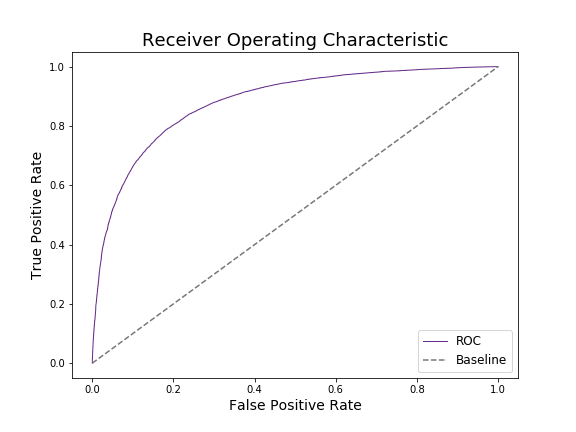
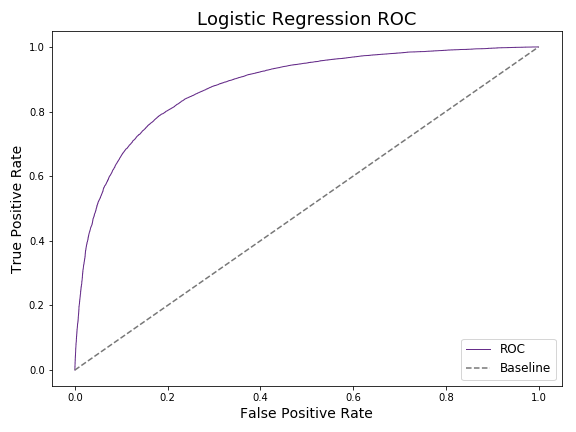
added ROC curves

diff --git a/README.md b/README.md
@@ -6,62 +6,83 @@ This project would not have been possible without the data from [fetus-hina](htt
 ## Description
 
 #### Motivation and Goals
+
 &nbsp;&nbsp;&nbsp;&nbsp;&nbsp;&nbsp;This project started as an attempt to predict win rate based on various factors that can be determined pre-match such as game mode, weapon choice, and rank. I wanted to do this less for the end result of the prediction, but so I could better understand what contributes most to a win in Splatoon 2 and how it varied across different game modes.
 
 &nbsp;&nbsp;&nbsp;&nbsp;&nbsp;&nbsp;However, I quickly found that contrary what some might believe, Splatoon 2 is a perfectly balanced game with no exploits. Without hyperbole, there were practically no differences in win rate across all the factors I considered. Due to that, I was unable to get any useful models, but my process is documented in [Processing and Cleaning](https://github.com/Rokushou/Splatoon-2-Meta-Modeling/blob/master/Processing%20and%20Cleaning.ipynb) and [Modeling](https://github.com/Rokushou/Splatoon-2-Meta-Modeling/blob/master/Modeling.ipynb) if anyone else would like to attempt this.
 
-&nbsp;&nbsp;&nbsp;&nbsp;&nbsp;&nbsp;Pivoting from my dead end, I decided to do predictions on aggregated post-match statistics. While predicting the outcome of a match with information obtained after the match is next to useless, modeling it allows me to use inferential statistics to determine the most important factors for winning as well as being able to score and compare players using their post-match statistics. Useful for answering the age old question of "How hard did I (or in most cases my friend Jeff) carry the team?"
+&nbsp;&nbsp;&nbsp;&nbsp;&nbsp;&nbsp;Pivoting from my block, I decided to do predictions on aggregated post-match statistics. While predicting the outcome of a match with information obtained after the fact is next to useless, modeling it allows me to use inferential statistics to determine the most important factors for winning as well as being able to score and compare players using their post-match statistics. Useful for answering the age old question of "How hard did I (or in most cases my friend Jeff) carry the team?"
 
 #### Overview
--Player data gathered from stat.ink, a site where players can voluntarily upload their match data. It is located in `data/raw` and schema can be found in [schema.md](https://github.com/Rokushou/Splatoon-2-Meta-Modeling/blob/master/schema.md).
 
--Predict win rate by modeling binary win/loss and using predict percent.
+- Player data gathered from stat.ink, a site where players can voluntarily upload their match data. It is located in `data/raw/` and schema can be found in [schema.md](https://github.com/Rokushou/Splatoon-2-Meta-Modeling/blob/master/schema.md).
 
--Used logistic regression and gradient boosting to determine most important factors contributing to winning, and a neural network to perform predictions with 81% accuracy.
+- Predicted win rate by modeling binary win/loss and using predict percent.
 
--As a future project, create a simple interface like a flask website to output predictions based on user inputted data.
+- Used inferential regression and gradient boosting feature importance to determine most important factors contributing to winning.
+
+- Developed a neural network to perform predictions with 81% accuracy.
 
 ## EDA (Experimental Data Analysis)
 My first dead end model came about because of improper EDA. I thought I had enough domain knowledge, so used intuition to decide which features to use. Turns out that the distributions between win and loss were nearly identical for all my features. I did find a few things worth noting though.
+
+#### Wins and Losses by Rank
 
 ![](img/rankx.png)
 
 Rank X has significantly more wins than losses. This is not surprising as they are the top players but it is interesting that S+ did not exhibit this.
 
+#### Wins and Losses by Weapon Category
+
 ![](img/charger.png)
 
 * Note: `maneuver` is the dualie category and `reelgun` is the nozzlenose family.
-<div style="text-align:center"><img src="https://cdn.wikimg.net/en/splatoonwiki/images/a/ad/S2_Weapon_Main_Splatterscope.png" /></div>
 
-Confirming the belief that charger (sniper) players are dead weight, the charger weapon category has the highest proportion of losses of all weapon types, with rollers coming in a distant second.
+Somewhat confirming the belief that charger (sniper) players are dead weight, the charger weapon category has the highest proportion of losses of all weapon types, with rollers coming in a distant second.
 
-#### Actual Proper EDA
+![](https://cdn.wikimg.net/en/splatoonwiki/images/a/ad/S2_Weapon_Main_Splatterscope.png)
+
+### Actual Proper EDA
+
 I was initially planning on modeling with features such like the ones shown above, which showed little if any difference in distribution between win and lose. Eventually I decided that this would never produce any meaningful predictions and decided to resort to post-match results. these are some of the more interesting overlapped histograms.
+
+#### Kills
 
 ![](img/kill.png)
 
-Kills have two peaks in the distribution for both win and lose. This may be because there are objective focused players and kill focused players.
+Kills have two peaks in the distribution for both win and lose. This may be because there are objective focused players that only fight when necessary and kill focused players that hunt down the enemy.
+
+#### Assists
 
 ![](img/assist.png)
 
-Assists are very low compared to kills due to the fast paced nature (fights usually end before a teammate can notice and contribute). The peaks are very distinct between win and lose.
+Assists are very low compared to kills due to the fast paced nature (fights usually end before a teammate can notice and contribute). The peaks are very distinct between win and lose which means that assists still matter.
+
+#### Turf Inked
 
 ![](img/inked.png)
 
-Turf inked has a lot of overlap and the shape of the distribution is almost identical for win and lose. Is inking the cause of the win or does the winning team have more opportunity to ink?
+Turf inked has a lot of overlap and the shape of the distribution is almost identical for win and lose. Is inking the cause of the win or does the winning team get more opportunity to ink when momentum is in their favor?
 
 ## Modeling
 
 #### Logistic Regression
+
 I decided to throw `mode, kill, assist, death, special, inked, level` into a simple logistic model with L1 penalty for a quick initial estimate. It did surprisingly well with 80.2% accuracy and could be kept for inferential regression.
 
 ![](img/roc.png)
 
 #### Gradient Boosting
-After optimizing a gradient boosting classifier with a gridsearch, I only managed a slight accuracy increase to 80.4%. This model may still be useful since I can draw inferences from feature importance.
+
+After optimizing a gradient boosting classifier with a gridsearch, I only managed a slight accuracy increase to 80.4%. This model is more accurate and I can draw inferences from feature importance.
+
+![](img/gbroc.png)
 
 #### Neural Network
-I spent a lot of time manually tuning hyperparameters and managed to get 80.5% accuracy. This means that my initial logistic regression was plenty good even though I just threw it together. I would use s neural net if I wanted a purely predictive model but will still stick to the logistic regression as I can better draw inferences with it.
+
+I spent a lot of time manually tuning hyperparameters and managed to get 80.5% accuracy. This means that my initial logistic regression was plenty good even though I just threw it together. I would use a neural net if I wanted a purely predictive model but will still stick to the logistic regression as I can better draw inferences with it.
+
+![](img/nnroc.png)
 
 ## Interpretations
 
@@ -69,7 +90,7 @@ I spent a lot of time manually tuning hyperparameters and managed to get 80.5% a
 
 The Linear Regression Assumptions:
 - Linearity
-    - My logistic regression model does almost well as Gradient Boosting and Neural Net. This would not be true if the data was not linear.
+    - My logistic regression model does almost well as Gradient Boosting and Neural Net. This would not be true if the data was non-linear.
 - Linear Independence
     - Predictors chosen in a way that do not overlap, Kill-Assist was not chosen for this reason.
 - Independence
@@ -83,11 +104,11 @@ With these conditions satisfied, I can properly use inferential regression. Firs
 
 ![](img/coef.png)
 
-It seems like death and kill are the most important by a large margin, no surprise there. However it does appear that death (not dying) is more important than getting kills. Inked and special are also good and it is interesting that inked is more important than special because one of the main motivations for inking is to build special meter.
+It seems like death and kill are the most important by a large margin, no surprise there. However it does appear that death (not dying) is more important than getting kills. According to this model a 1 for 1 trade is not worth it. Inked and special are also good predictors and it is interesting that inked is more important than special because one of the main motivations for inking is to build special meter.
 
 ![](img/pvalues.png)
 
-* x1 - x11 correspond to `Kill, Assist, Death, Special, Inked, Level, Game: Splat Zones, Game: Clam Blitz, Game: Rainmaker, Game: Turf War, Game: Tower Control`
+* x1 - x11 correspond to `Kill, Assist, Death, Special, Inked, Level, Game Mode: Splat Zones, Game Mode: Clam Blitz, Game Mode: Rainmaker, Game Mode: Turf War, Game Mode: Tower Control`
 
 The p-values show that Kill, Assist, Death, Special, and Inked are all good predictors while the game modes are particularly poor predictors.
 
@@ -100,4 +121,7 @@ My gradient boosting model was a little more accurate than my logistic regressio
 Deaths and kills are also the most important here, however they are more evenly weighted. Inked has dropped in proportional importance but is still 3rd and handily beats special. Surprisingly, level is now a relatively useful predictor, indicating that it may have a nonlinear correlation to win rate.
 
 ## Future Work
-<span style="color:white">&nbsp;&nbsp;&#9650;<br>&#9650;&nbsp;&#9650;<br>You found the secret Triforce!</span>
+
+- Model with the entire dataset instead of only the most recent game version to see if predictions improve.
+
+- Create a flask website that can run my my model using javascript and output predictions based on user input.
